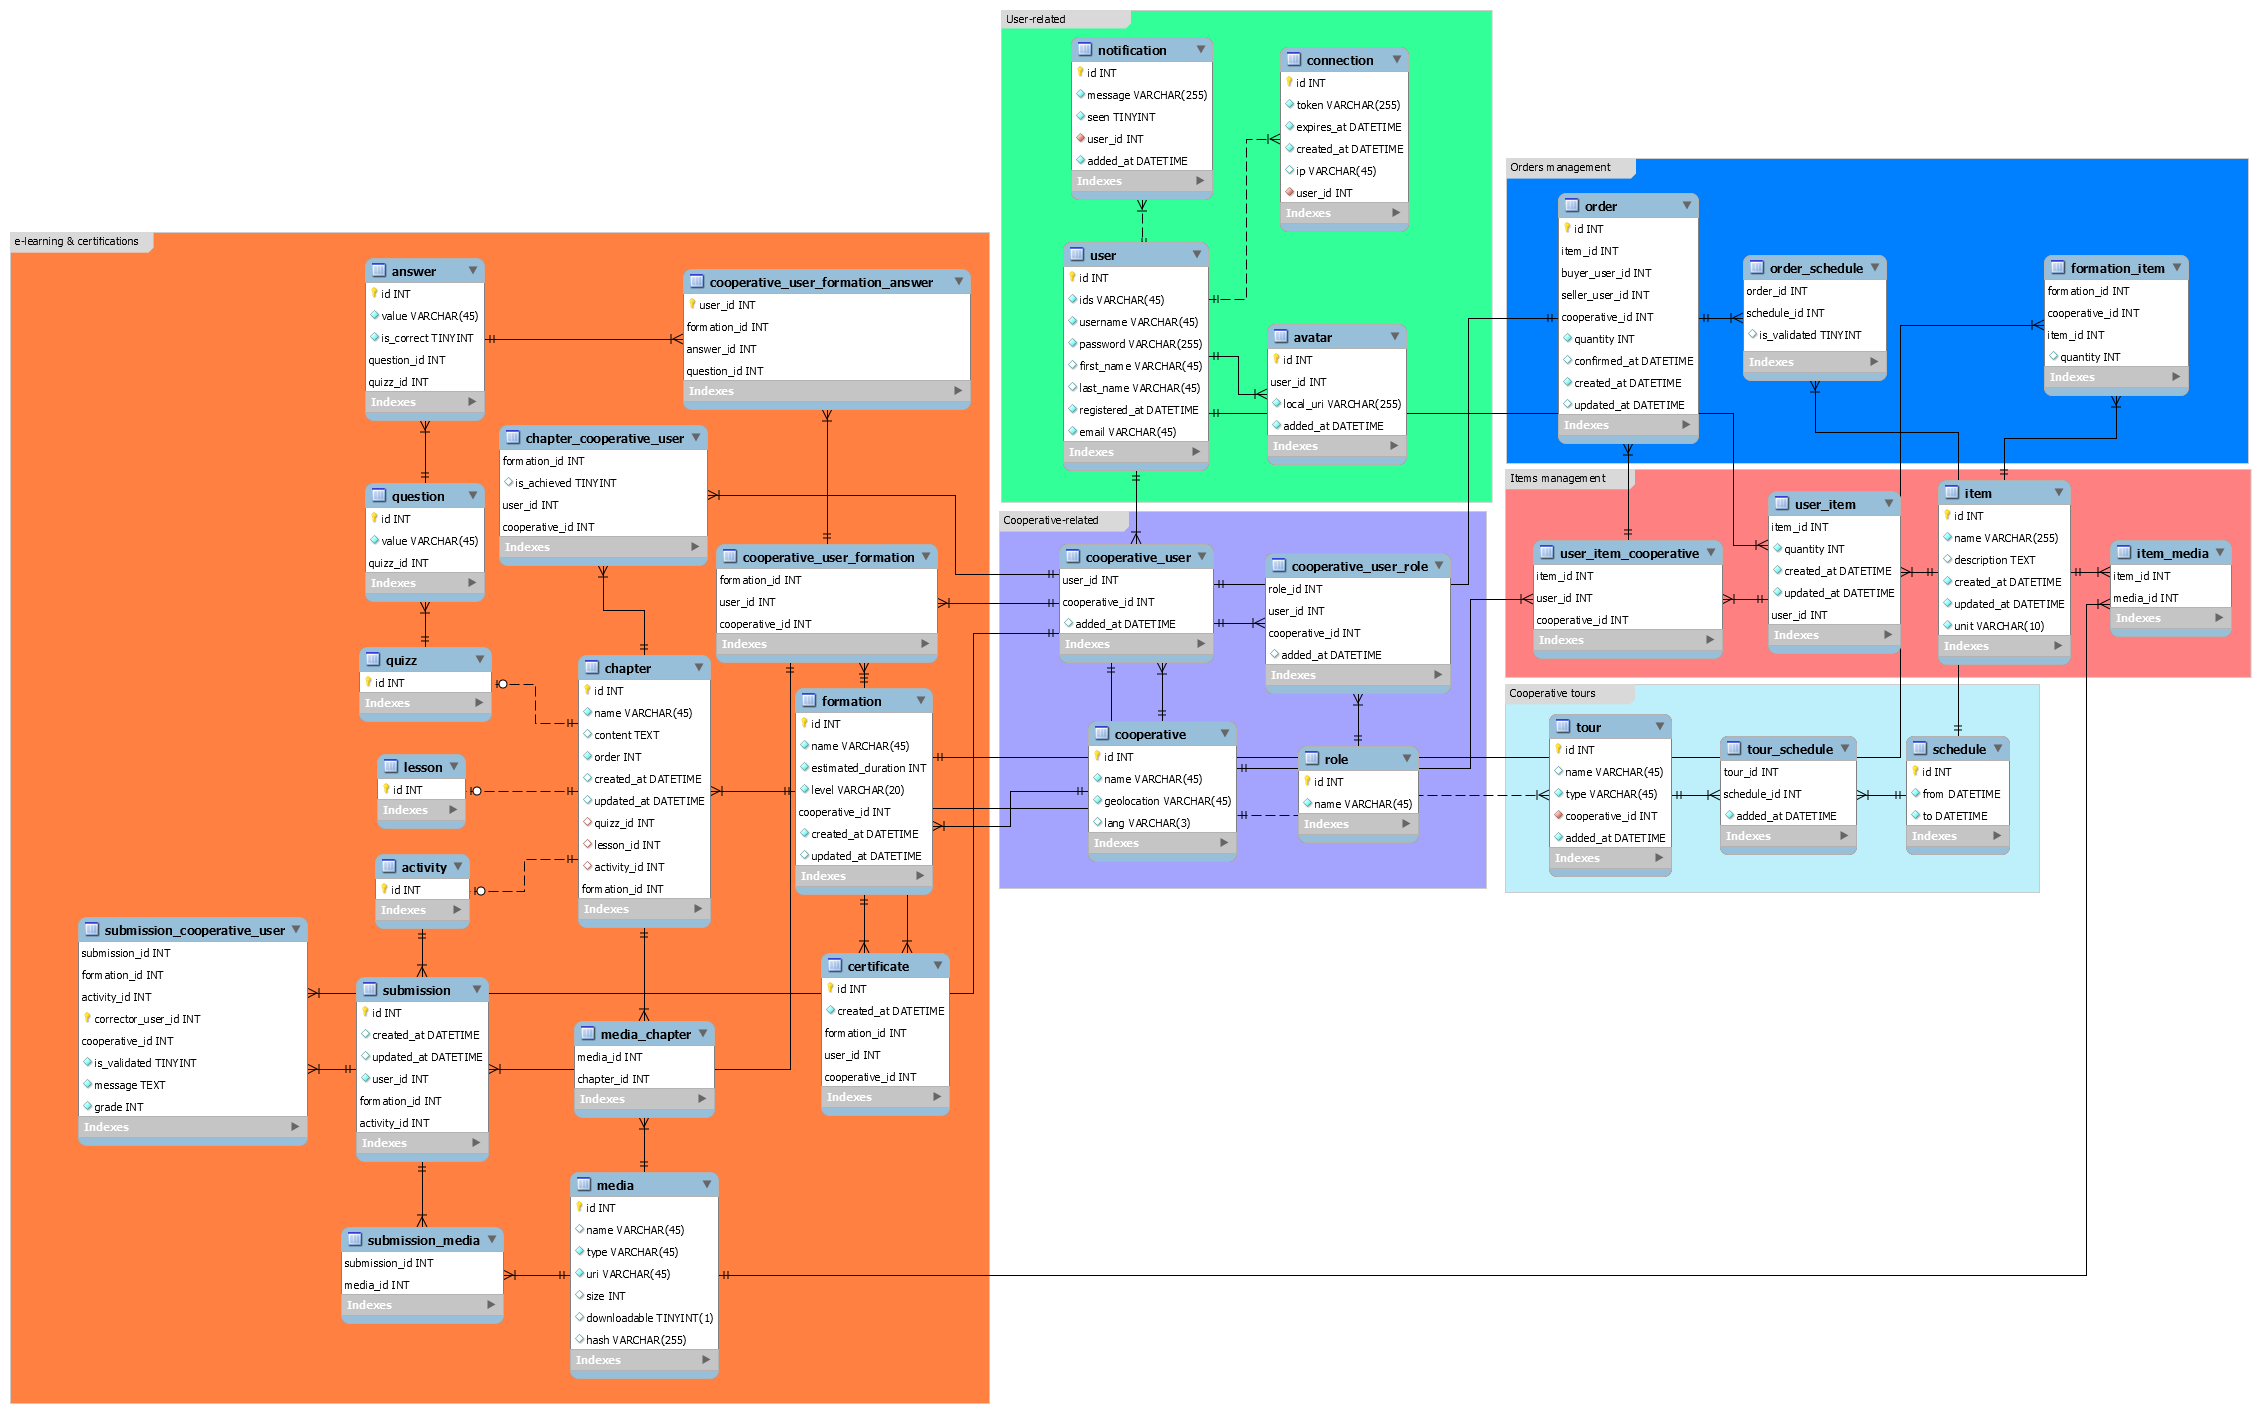
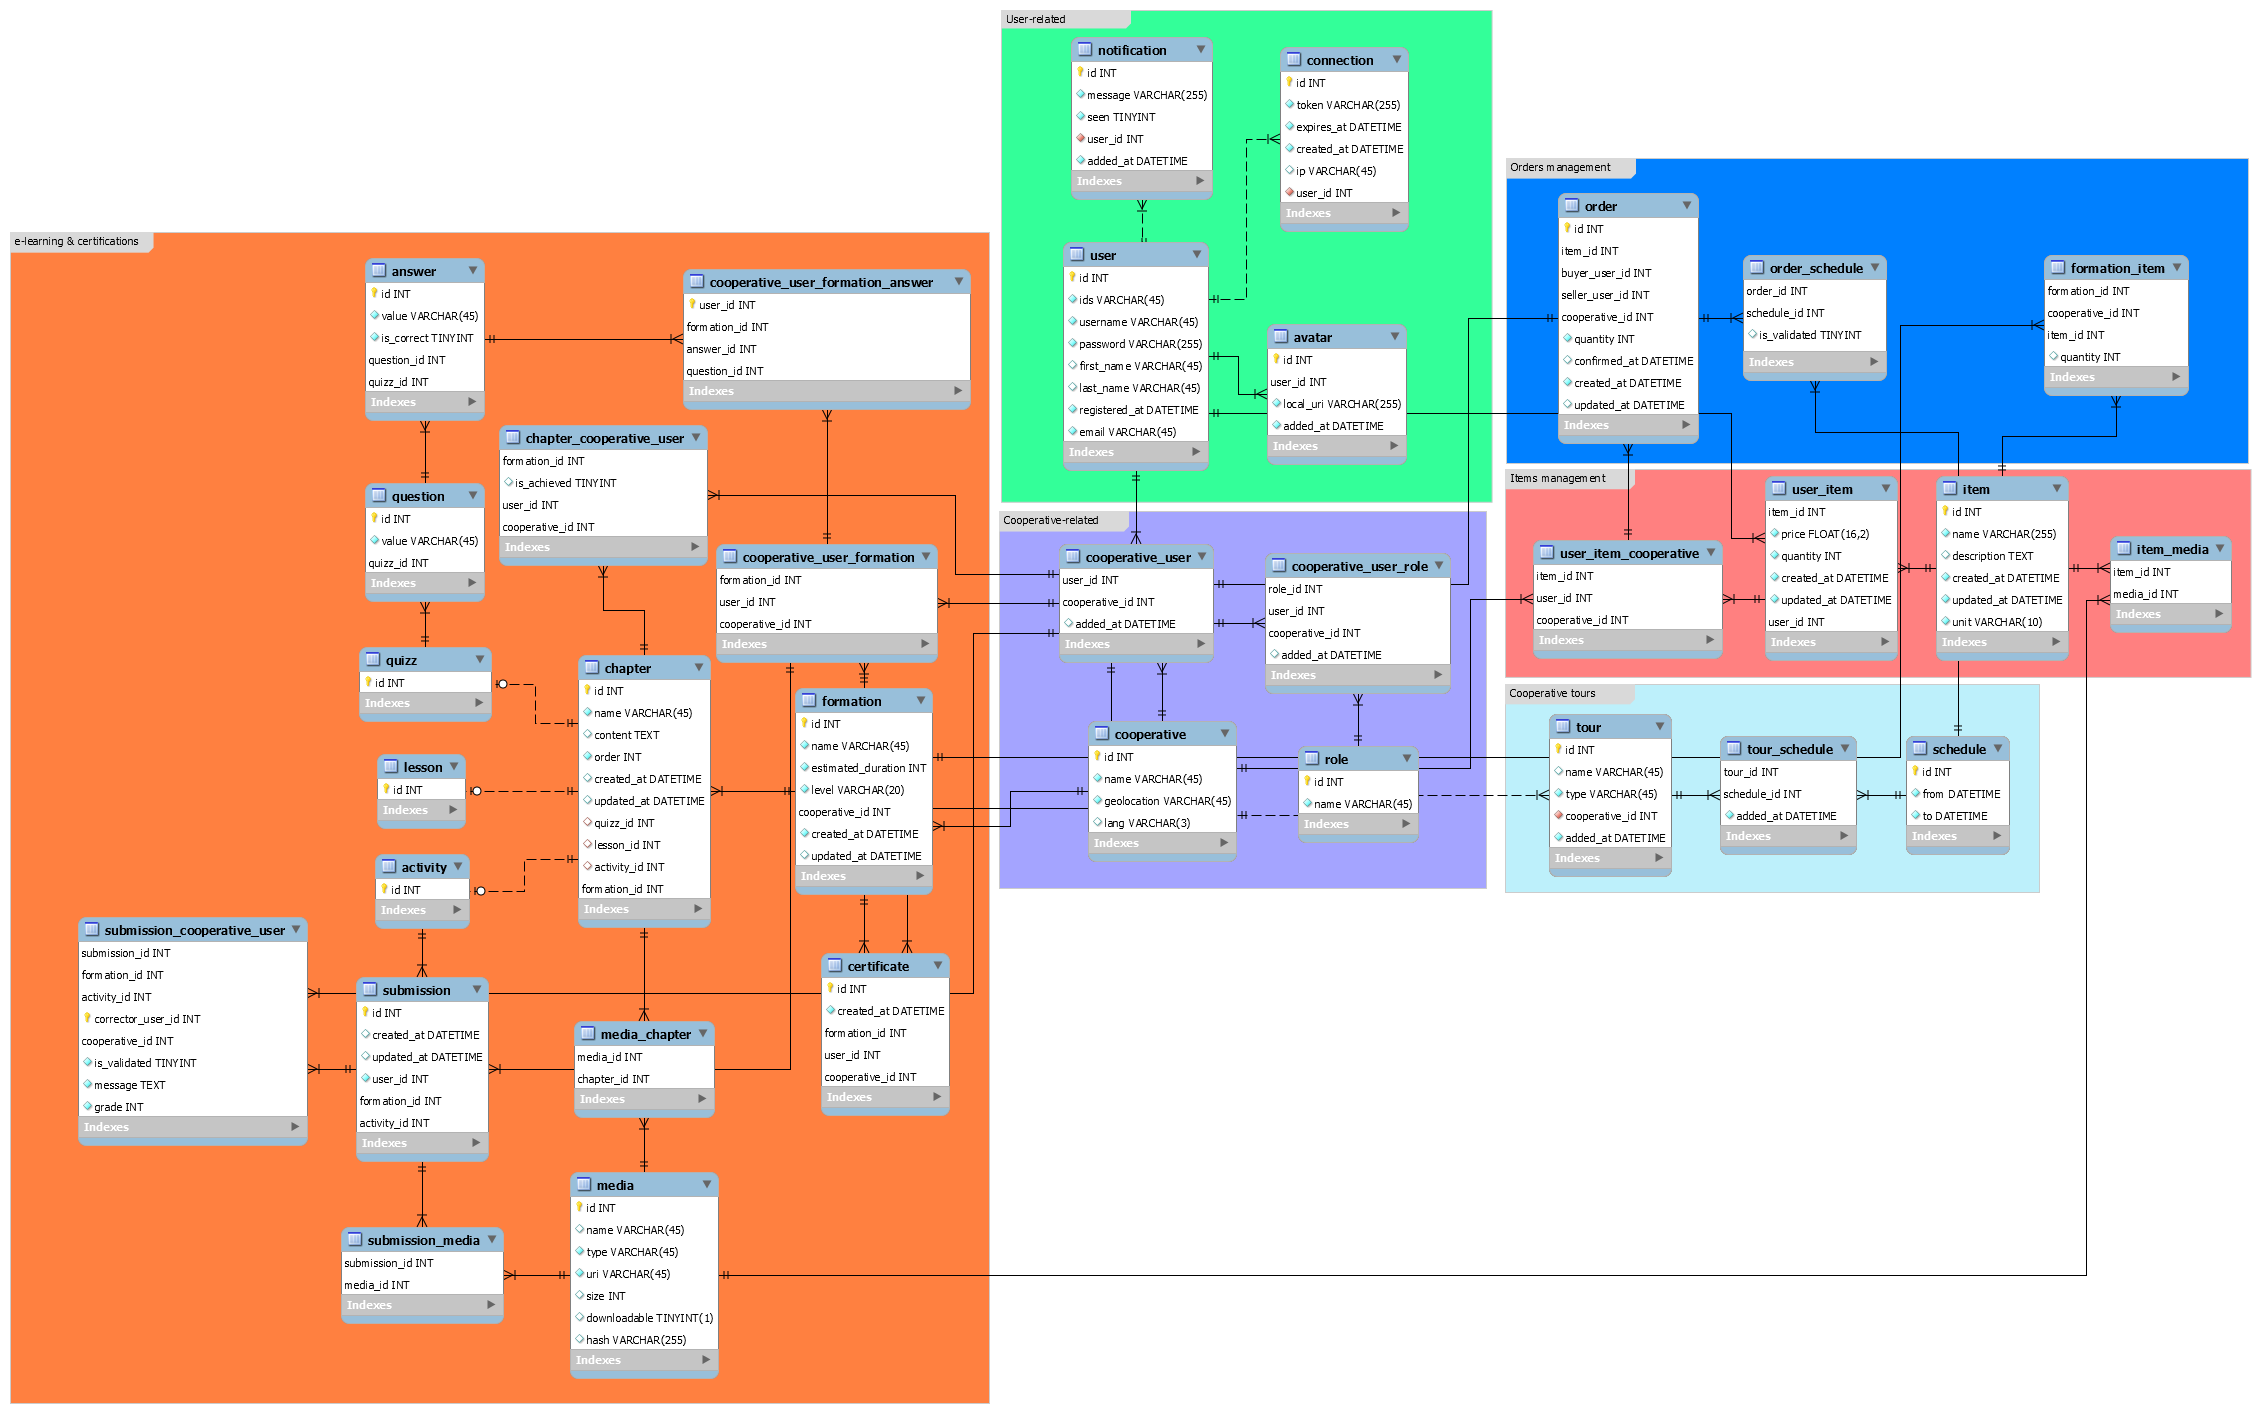
Added price of user items

Changed region(s): [[0.7743, 0.3114, 0.9912, 0.4982]]

diff --git a/api/database/migrations/2019_04_08_151856_create_user_item_table.php b/api/database/migrations/2019_04_08_151856_create_user_item_table.php
@@ -14,6 +14,7 @@ class CreateUserItemTable extends Migration
     public function up()
     {
         Schema::create('user_item', function (Blueprint $table) {
+            $table->float('price');
             $table->integer('quantity');
             $table->integer('item_id')->unsigned();
             $table->bigInteger('user_id')->unsigned();
